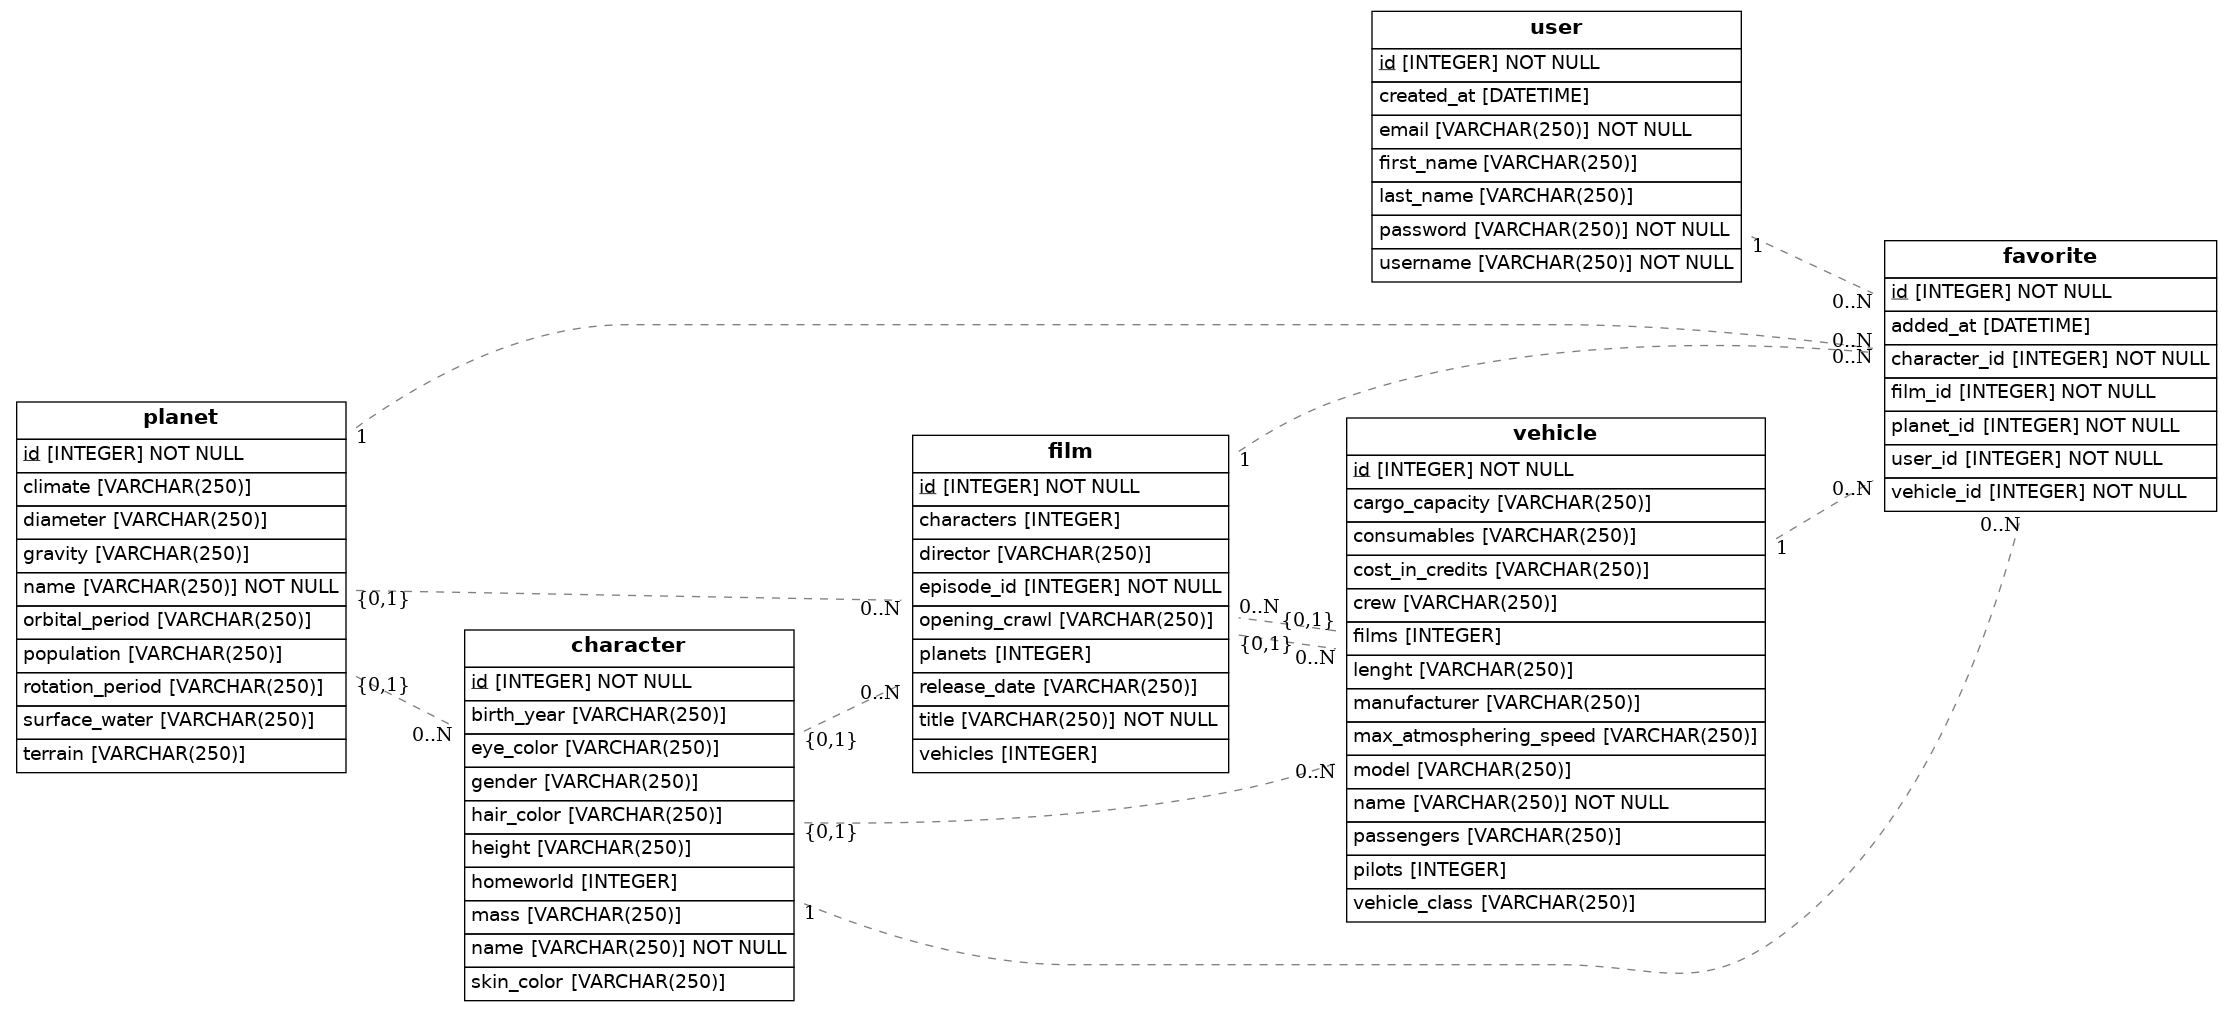
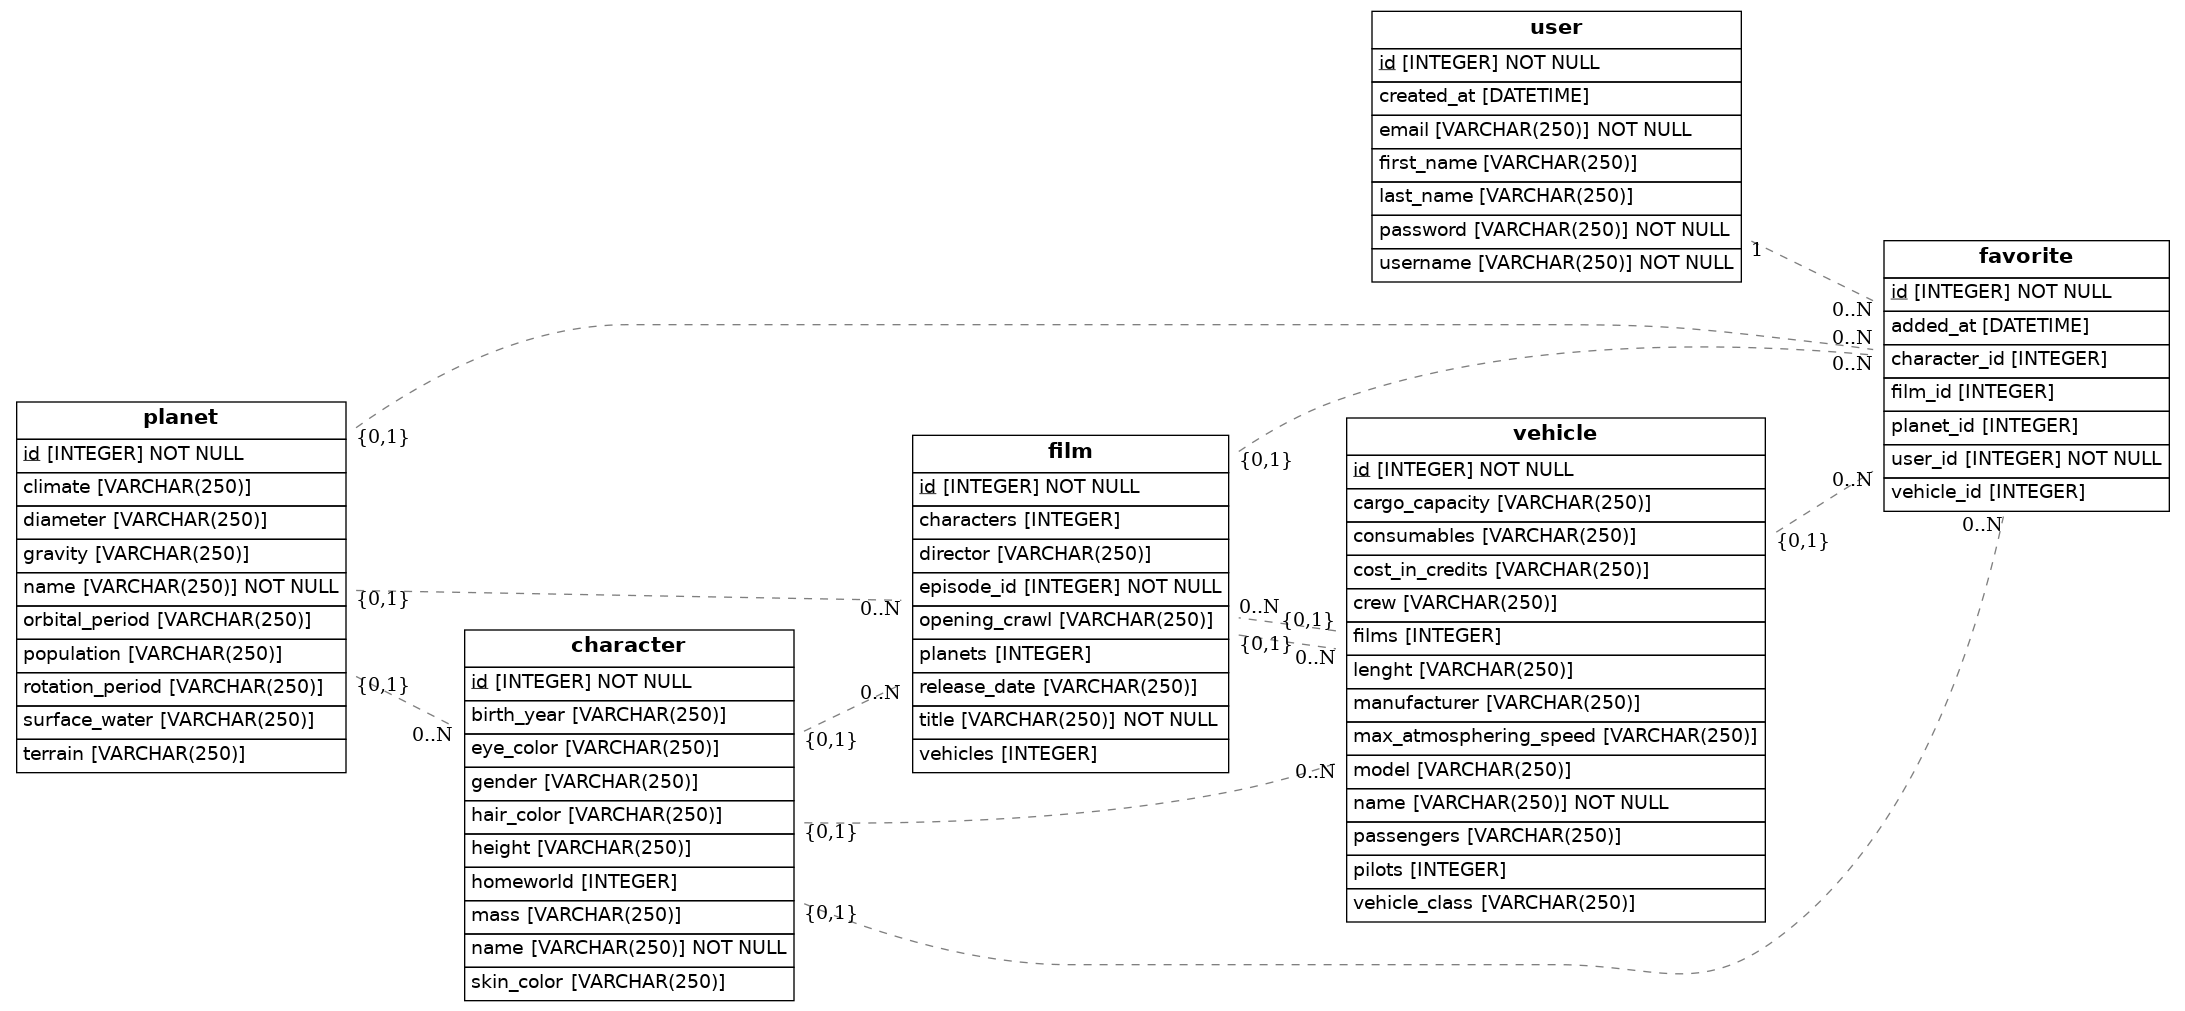
Versión final

diff --git a/src/models.py b/src/models.py
@@ -17,8 +17,9 @@ class User(Base):
     first_name = Column(String(250))
     last_name = Column(String(250))
     created_at = Column(DateTime, default=datetime.datetime.utcnow)
-    favorites =  Column(Integer, ForeignKey('favorite.id'))
 
+    favorites = relationship("Favorite", back_populates="user")
+                             
 class Favorite(Base):
     __tablename__ = 'favorite'
     #Propiedades (ID por tipología)
@@ -29,6 +30,8 @@ class Favorite(Base):
     film_id = Column(Integer, ForeignKey('film.id'), nullable=True)
     vehicle_id = Column(Integer, ForeignKey('vehicle.id'), nullable=True)
     added_at = Column(DateTime, default=datetime.datetime.utcnow)
+    
+    user = relationship("User", back_populates="favorites")
 
 class Planet(Base):
     __tablename__ = 'planet'
